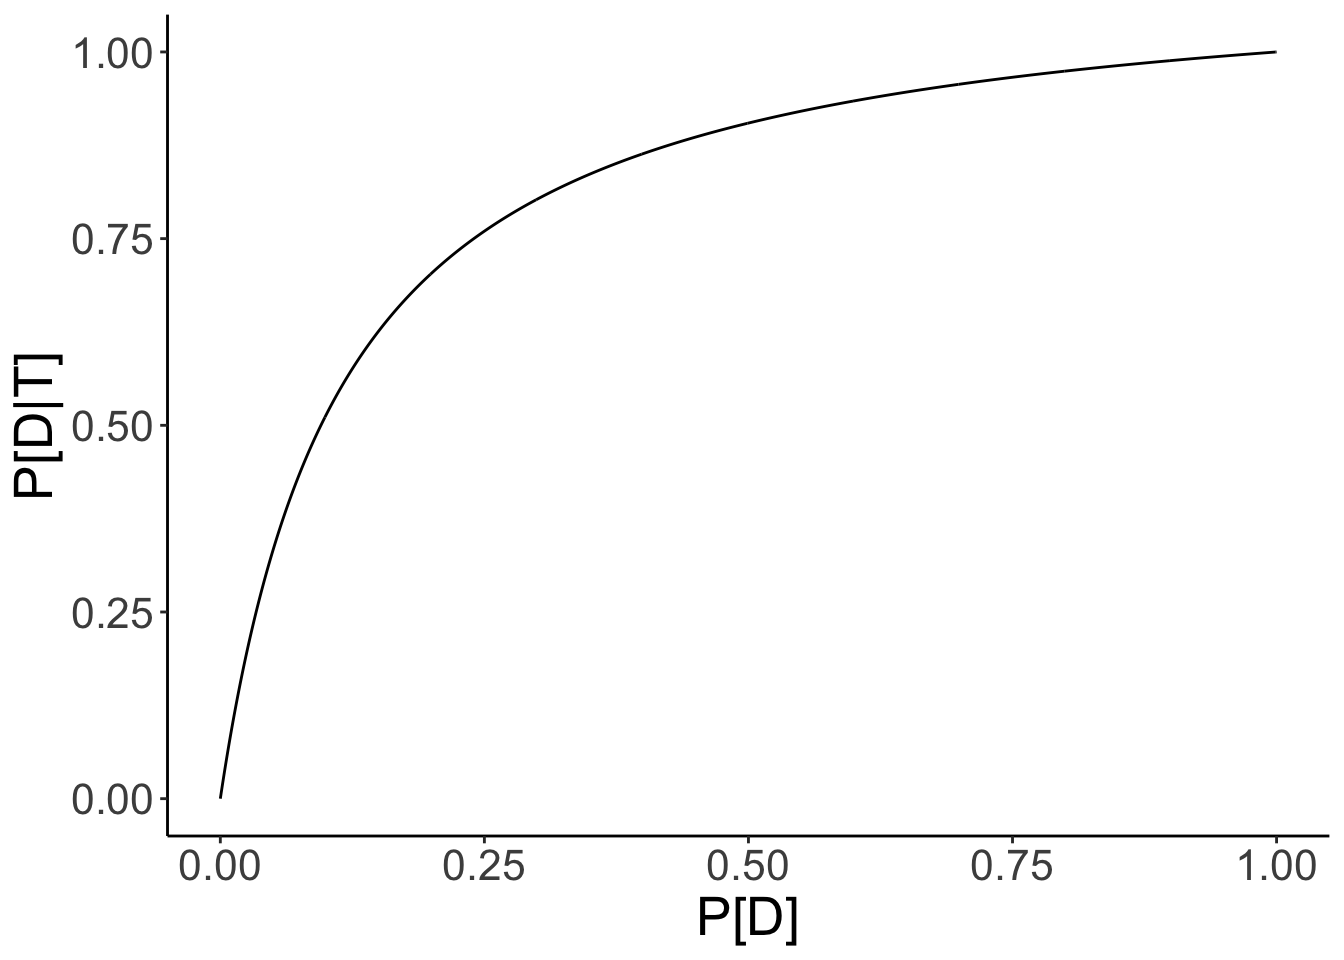
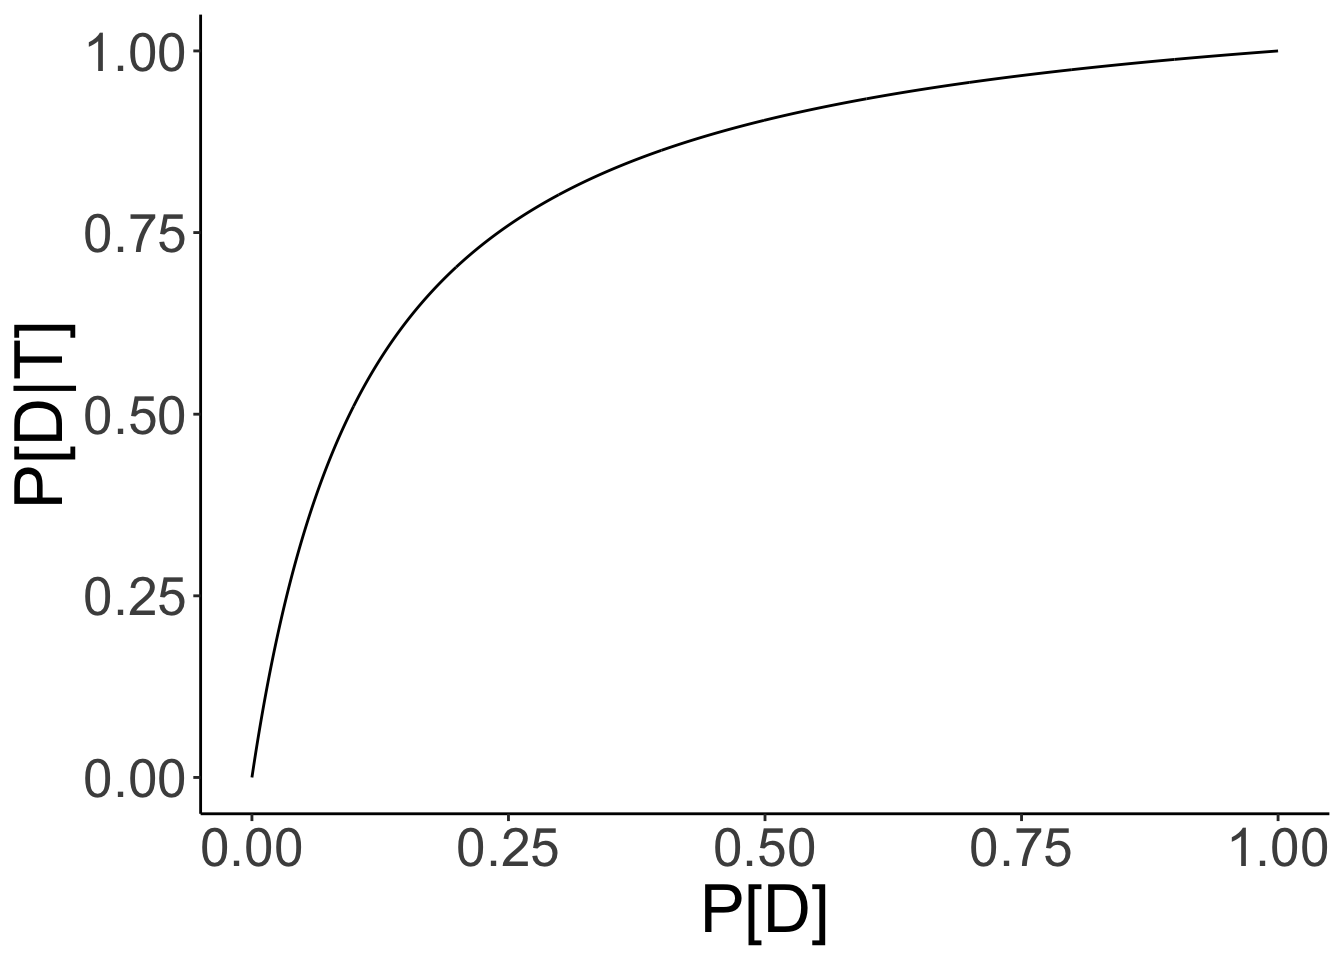
fixed width of figures

diff --git a/docs/2020/10/01/bayes-theorem-and-conditional-probability/index.html b/docs/2020/10/01/bayes-theorem-and-conditional-probability/index.html
@@ -135,8 +135,8 @@ ggplot(dat,aes(x  = pD,y = pDgivenT)) +
   theme_classic() +
   xlab(&quot;P[D]&quot;) + 
   ylab(&quot;P[D|T]&quot;) + 
-  theme(text = element_text(size = 20))  </code></pre>
-<p><img src="/ABS1/post/2020-10-01-bayes-theorem-and-conditional-probability_files/figure-html/unnamed-chunk-1-1.png" width="75%" /></p>
+  theme(text = element_text(size = 25))  </code></pre>
+<p><img src="/ABS1/post/2020-10-01-bayes-theorem-and-conditional-probability_files/figure-html/unnamed-chunk-1-1.png" width="80%" style="display: block; margin: auto;" /></p>
 <p>We see that the test’s false positive probability strongly depends on the prevalence. The rarer the disease is, the less reliable the test is in informing you whether you actually have the disease. The specificity also has a strong impact on the interpretation of the test. For instance, for the current Covid-19 PCR tests specificity seems to be closer to 99% than to 90%, then we would get the following:</p>
 <pre class="r"><code>pD = seq(0,1,by=0.001)
 pTgivenD = 0.95
@@ -156,7 +156,7 @@ ggplot(dat,aes(x  = pD,y = pDgivenT)) +
   xlab(&quot;P[D]&quot;) + 
   ylab(&quot;P[D|T]&quot;) + 
   theme(text = element_text(size = 20)) </code></pre>
-<p><img src="/ABS1/post/2020-10-01-bayes-theorem-and-conditional-probability_files/figure-html/unnamed-chunk-2-1.png" width="75%" /></p>
+<p><img src="/ABS1/post/2020-10-01-bayes-theorem-and-conditional-probability_files/figure-html/unnamed-chunk-2-1.png" width="80%" style="display: block; margin: auto;" /></p>
 
     </div>
   </article>

diff --git a/content/post/2020-10-01-bayes-theorem-and-conditional-probability.html b/content/post/2020-10-01-bayes-theorem-and-conditional-probability.html
@@ -65,8 +65,8 @@ ggplot(dat,aes(x  = pD,y = pDgivenT)) +
   theme_classic() +
   xlab(&quot;P[D]&quot;) + 
   ylab(&quot;P[D|T]&quot;) + 
-  theme(text = element_text(size = 20))  </code></pre>
-<p><img src="/ABS1/post/2020-10-01-bayes-theorem-and-conditional-probability_files/figure-html/unnamed-chunk-1-1.png" width="75%" /></p>
+  theme(text = element_text(size = 25))  </code></pre>
+<p><img src="/ABS1/post/2020-10-01-bayes-theorem-and-conditional-probability_files/figure-html/unnamed-chunk-1-1.png" width="80%" style="display: block; margin: auto;" /></p>
 <p>We see that the test’s false positive probability strongly depends on the prevalence. The rarer the disease is, the less reliable the test is in informing you whether you actually have the disease. The specificity also has a strong impact on the interpretation of the test. For instance, for the current Covid-19 PCR tests specificity seems to be closer to 99% than to 90%, then we would get the following:</p>
 <pre class="r"><code>pD = seq(0,1,by=0.001)
 pTgivenD = 0.95
@@ -86,4 +86,4 @@ ggplot(dat,aes(x  = pD,y = pDgivenT)) +
   xlab(&quot;P[D]&quot;) + 
   ylab(&quot;P[D|T]&quot;) + 
   theme(text = element_text(size = 20)) </code></pre>
-<p><img src="/ABS1/post/2020-10-01-bayes-theorem-and-conditional-probability_files/figure-html/unnamed-chunk-2-1.png" width="75%" /></p>
+<p><img src="/ABS1/post/2020-10-01-bayes-theorem-and-conditional-probability_files/figure-html/unnamed-chunk-2-1.png" width="80%" style="display: block; margin: auto;" /></p>
